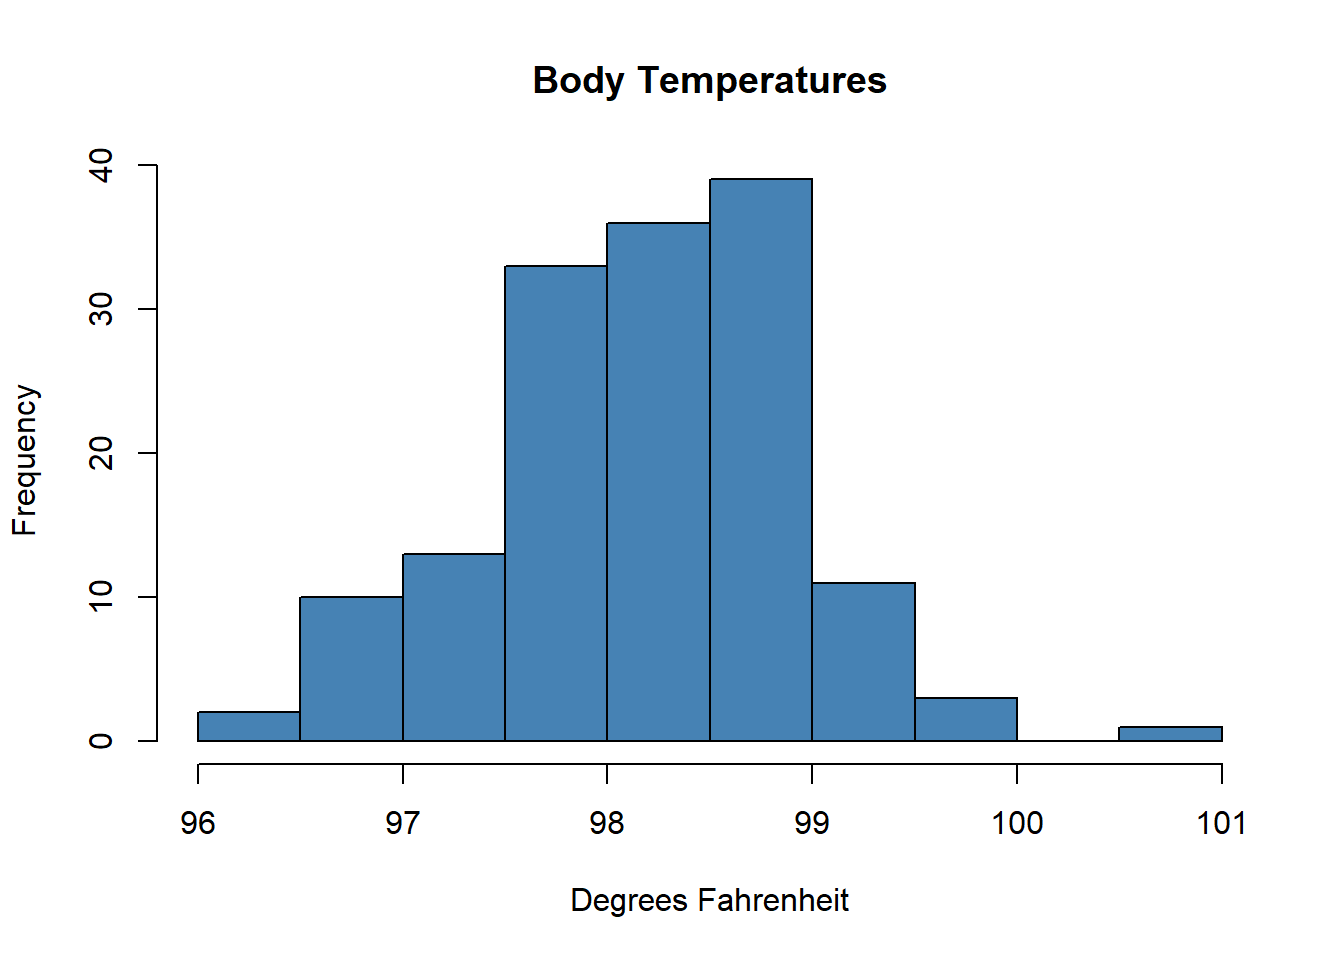
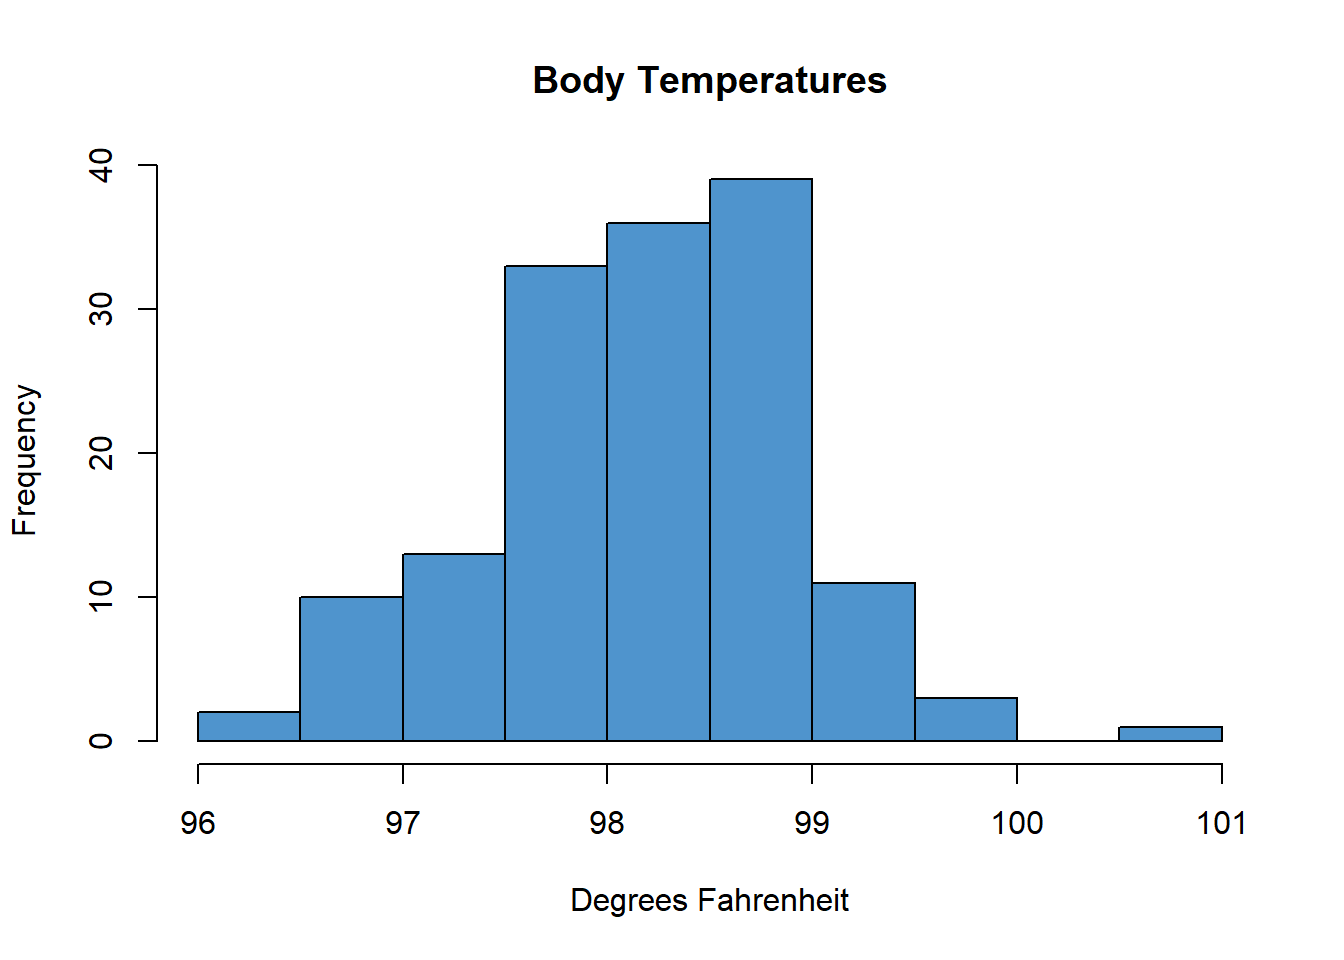
Adjust colors

Changed region(s): [[0.125, 0.1875, 0.7812, 0.7812], [0.8125, 0.75, 0.9062, 0.7812]]

diff --git a/docs/Lesson05.html b/docs/Lesson05.html
@@ -1548,7 +1548,7 @@ Answer the following questions:
 {{Course_Filter_Two|A=[[File:BodyTemperatures-Histogram.png|link=|400 px]]|B=[[File:Histogram Example.jpg|link=|400px]]}}
 -->
 <p>Create a histogram in R by first <a href="RHelp#reading-in-data">importing the data</a> to RStudio. Then, use code similar to:</p>
-<pre class="r"><code>hist(BodyTemp$BodyTemp, main=&quot;Body Temperatures&quot;, xlab=&quot;Degrees Fahrenheit&quot;, col=&quot;steelblue&quot;)</code></pre>
+<pre class="r"><code>hist(BodyTemp$BodyTemp, main=&quot;Body Temperatures&quot;, xlab=&quot;Degrees Fahrenheit&quot;, col=&quot;steelblue3&quot;)</code></pre>
 <p><img src="Lesson05_files/figure-html/unnamed-chunk-3-1.png" width="672" /></p>
 </div>
 <p><br></p>
@@ -1593,7 +1593,7 @@ Answer the following questions:
 <div id="Q8" style="display:none;">
 <p>First, read in the <strong>Survey Data</strong> into RStudio. Then, use the code</p>
 <pre class="r"><code>SurveyData &lt;- read_excel(&quot;./data/SurveyData.xlsx&quot;)</code></pre>
-<pre class="r"><code>hist(SurveyData$Wage, xlab=&quot;Hourly Wages&quot;, main=&quot;BYU-Idaho Student Survey Results&quot;, col=&quot;yellow3&quot;)</code></pre>
+<pre class="r"><code>hist(SurveyData$Wage, xlab=&quot;Hourly Wages&quot;, main=&quot;BYU-Idaho Student Survey Results&quot;, col=&quot;tan3&quot;)</code></pre>
 <p><img src="Lesson05_files/figure-html/unnamed-chunk-6-1.png" width="672" /></p>
 </div>
 <p><br></p>
